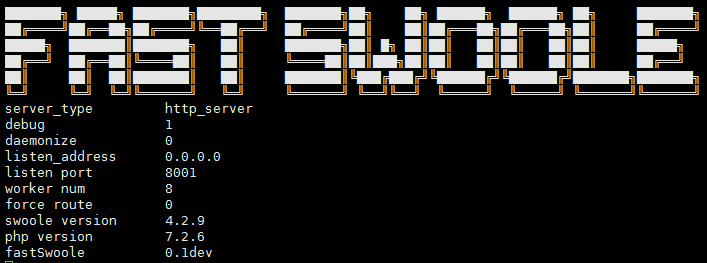
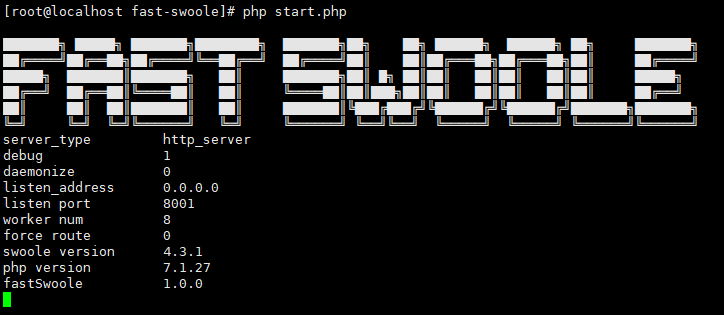
更新正式版readme

Changed region(s): [[0.0, 0.0, 0.9958, 1.0]]

diff --git a/loader.php b/loader.php
@@ -10,7 +10,7 @@
 // +----------------------------------------------------------------------
 define("ROOT_PATH", __DIR__);
 define("APP_PATH", ROOT_PATH . "/application");
-define("FASTSWOOLE_VERSION", "1.0");
+define("FASTSWOOLE_VERSION", "1.0.0");
 require_once APP_PATH . "/common.php";
 require_once ROOT_PATH . "/vendor/autoload.php";
 require_once ROOT_PATH . "/config/app.php";

diff --git a/README.MD b/README.MD
@@ -8,20 +8,16 @@
 
 宗旨：大道至简 - 不传统的PHP高性能框架
 
-`说明：目前fastSwoole初步完善了HTTP服务，正在完善TCP、UDP、WebSocket服务！`
-
 开发文档：https://www.kancloud.cn/panco/panco/864408
 
 官网：http://fastswoole.iorip.cn
 
  安装步骤：
 
-`1、下载框架：git clone https://github.com/panco95/fastSwoole.git 项目名称`
+`1、新建项目：composer create-project panco/fast-swoole`
 
-`2、安装所需类库：composer update`
+`2、安swoole扩展：pecl install swoole`
 
-`3、安swoole扩展：pecl install swoole`
+`3、开启Http服务：php start.php start`
 
-`4、开启Http服务：php start.php start`
-
-`5、浏览器访问 127.0.0.1.8001`（127.0.0.1是本机ip，使用时请改成服务器或虚拟机IP）
+`4、浏览器访问 127.0.0.1.8001`（127.0.0.1是本机ip，使用时请改成服务器或虚拟机IP）
